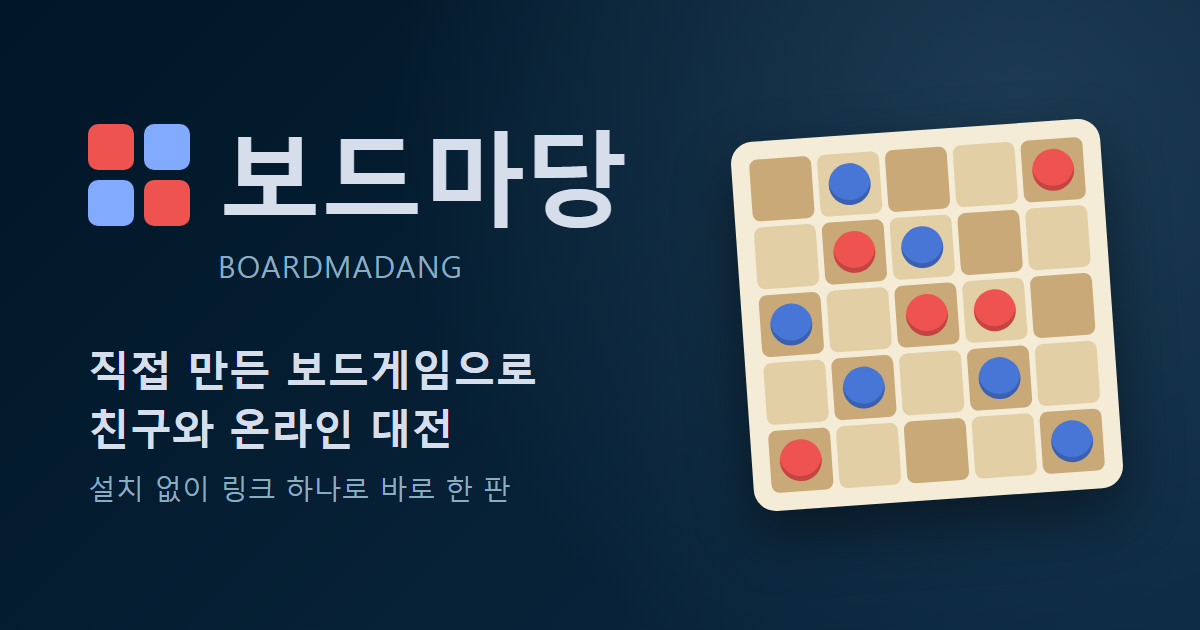
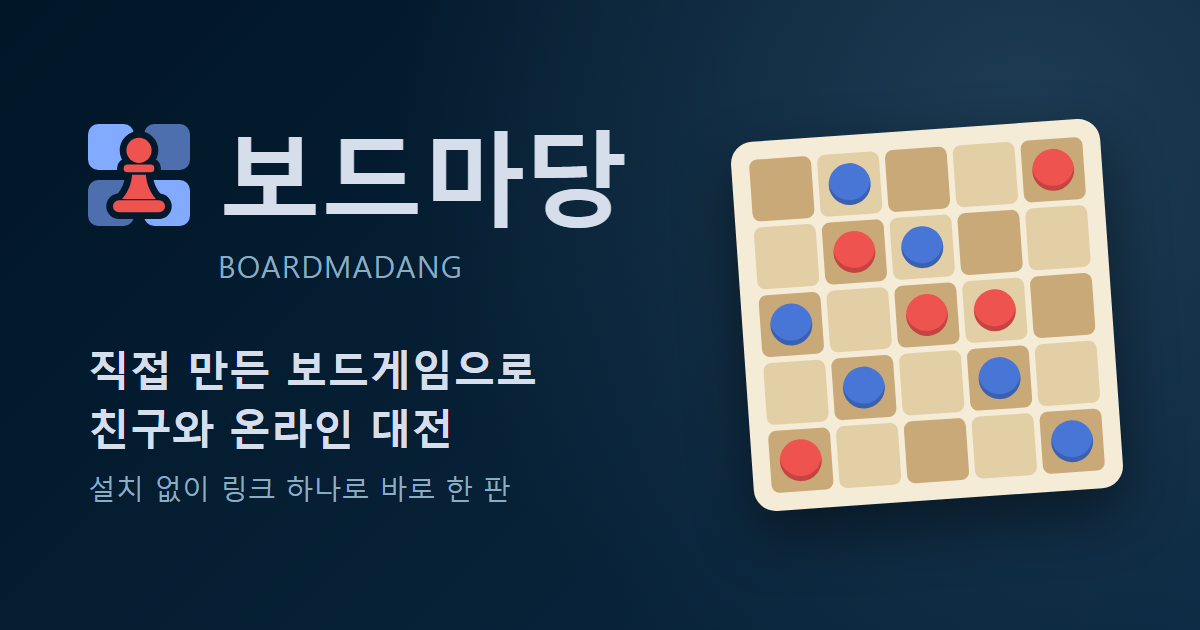
웹: 새 로고 (체크 판 위의 폰)
네 색 네모 로고를 파랑 두 톤 체크 판 위에 빨간 폰이 선 모양으로 바꿨습니다.
- 머리줄과 바닥글: 네모 네 개 대신 그림 한 장. 어두운 화면은 icon.svg,
  밝은 화면은 조금 진한 색의 icon-light.svg
- 탭 아이콘(icon.svg, icon-32.png)도 같은 모양으로 맞춤 (전에는 두 색이라 머리줄 로고와 달랐음)
- 아이폰 홈 화면 아이콘(icon-180.png)과 링크 미리보기 그림(og.png)의 로고도 새 모양으로

Changed region(s): [[0.0617, 0.181, 0.185, 0.3619]]

diff --git a/web/lobby.css b/web/lobby.css
@@ -129,16 +129,15 @@ body {
   font-size: 18px;
 }
 
+/* 로고: 체크 판 위의 폰. 어두운 화면은 탭 아이콘과 같은 icon.svg, 밝은 화면은 조금 진한 icon-light.svg */
 .logo-mark {
-  display: grid;
-  grid-template-columns: repeat(2, 9px);
-  gap: 2px;
+  display: block;
+  flex: none;
+  width: 22px;
+  height: 22px;
+  background: url("icon.svg") center / contain no-repeat;
 }
-.logo-mark { gap: 3px; }
-.logo-mark i { width: 9px; height: 9px; border-radius: 2px; background: #ef5350; }
-.logo-mark i:nth-child(2) { background: #82aaff; }
-.logo-mark i:nth-child(3) { background: #7fdbca; }
-.logo-mark i:nth-child(4) { background: #ecc48d; }
+:root[data-theme="light"] .logo-mark { background-image: url("icon-light.svg"); }
 
 .menu { display: flex; align-items: center; gap: 4px; flex: 1; }
 .menu a, .menu .soon { padding: 7px 12px; border-radius: 8px; color: var(--topbar-muted); text-decoration: none; font-size: 15px; white-space: nowrap; }
@@ -1088,8 +1087,7 @@ fieldset .bars-chip, .bars-chip { width: 44px; padding: 0; justify-content: cent
 .app > .site-footer { width: 100%; max-width: 1240px; margin: 0 auto; padding: 24px 32px; justify-content: space-between; border-top: 1px solid var(--line); }
 .site-footer nav { display: flex; flex-wrap: wrap; gap: 4px 18px; }
 .footer-logo { display: flex; align-items: center; gap: 8px; color: var(--muted); }
-.footer-logo .logo-mark { grid-template-columns: repeat(2, 6px); gap: 2px; }
-.footer-logo .logo-mark i { width: 6px; height: 6px; border-radius: 1px; }
+.footer-logo .logo-mark { width: 16px; height: 16px; }
 
 /* ---- 좁은 화면 (휴대폰) ---- */
 

diff --git a/web/index.html b/web/index.html
@@ -25,7 +25,7 @@
   <div class="app">
     <header class="topbar">
       <a class="logo" href="/web/">
-        <span class="logo-mark" aria-hidden="true"><i></i><i></i><i></i><i></i></span>
+        <span class="logo-mark" aria-hidden="true"></span>
         <span data-i18n="site.name">보드마당</span>
       </a>
       <nav class="menu" data-i18n-attr="aria-label:menu.label" aria-label="메뉴">
@@ -146,7 +146,7 @@
     </main>
 
     <footer class="site-footer">
-      <span class="footer-logo"><span class="logo-mark" aria-hidden="true"><i></i><i></i><i></i><i></i></span><span data-i18n="site.name">보드마당</span></span>
+      <span class="footer-logo"><span class="logo-mark" aria-hidden="true"></span><span data-i18n="site.name">보드마당</span></span>
       <nav data-i18n-attr="aria-label:footer.label" aria-label="사이트 정보">
         <a href="/web/legal.html" data-i18n="footer.legal">약관과 개인정보</a>
         <a href="https://github.com/shin1244/boardmadang" data-i18n="footer.source">소스 코드</a>

diff --git a/web/legal.html b/web/legal.html
@@ -26,7 +26,7 @@
        저장하는 것과 탈퇴할 때 지우는 것은 docs/identity.md, 운영 조치는 docs/moderation.md와 맞춥니다. 고치면 시행일도 바꿉니다. -->
   <header class="topbar">
     <a class="logo" href="/web/">
-      <span class="logo-mark" aria-hidden="true"><i></i><i></i><i></i><i></i></span>
+      <span class="logo-mark" aria-hidden="true"></span>
       <span data-i18n="site.name">보드마당</span>
     </a>
     <nav class="menu" data-i18n-attr="aria-label:menu.label" aria-label="메뉴">

diff --git a/web/admin.html b/web/admin.html
@@ -17,7 +17,7 @@
   <!-- 글자는 web/i18n.js에 언어별로 있습니다. 여기 적힌 한국어는 스크립트가 돌기 전 잠깐 보이는 기본값입니다. -->
   <header class="topbar">
     <a class="logo" href="/web/">
-      <span class="logo-mark" aria-hidden="true"><i></i><i></i><i></i><i></i></span>
+      <span class="logo-mark" aria-hidden="true"></span>
       <span data-i18n="site.name">보드마당</span>
     </a>
     <nav class="menu" data-i18n-attr="aria-label:menu.label" aria-label="메뉴">

diff --git a/web/ai.html b/web/ai.html
@@ -25,7 +25,7 @@
   <!-- 글자는 web/i18n.js에 언어별로 있습니다. 여기 적힌 한국어는 스크립트가 돌기 전 잠깐 보이는 기본값입니다. -->
   <header class="topbar">
     <a class="logo" href="/web/">
-      <span class="logo-mark" aria-hidden="true"><i></i><i></i><i></i><i></i></span>
+      <span class="logo-mark" aria-hidden="true"></span>
       <span data-i18n="site.name">보드마당</span>
     </a>
     <nav class="menu" data-i18n-attr="aria-label:menu.label" aria-label="메뉴">

diff --git a/web/history.html b/web/history.html
@@ -15,7 +15,7 @@
   <!-- 글자는 web/i18n.js에 언어별로 있습니다. 여기 적힌 한국어는 스크립트가 돌기 전 잠깐 보이는 기본값입니다. -->
   <header class="topbar">
     <a class="logo" href="/web/">
-      <span class="logo-mark" aria-hidden="true"><i></i><i></i><i></i><i></i></span>
+      <span class="logo-mark" aria-hidden="true"></span>
       <span data-i18n="site.name">보드마당</span>
     </a>
     <nav class="menu" data-i18n-attr="aria-label:menu.label" aria-label="메뉴">

diff --git a/web/match.html b/web/match.html
@@ -25,7 +25,7 @@
   <!-- 글자는 web/i18n.js에 언어별로 있습니다. 여기 적힌 한국어는 스크립트가 돌기 전 잠깐 보이는 기본값입니다. -->
   <header class="topbar">
     <a class="logo" href="/web/">
-      <span class="logo-mark" aria-hidden="true"><i></i><i></i><i></i><i></i></span>
+      <span class="logo-mark" aria-hidden="true"></span>
       <span data-i18n="site.name">보드마당</span>
     </a>
     <nav class="menu" data-i18n-attr="aria-label:menu.label" aria-label="메뉴">

diff --git a/web/register.html b/web/register.html
@@ -25,7 +25,7 @@
   <!-- 글자는 web/i18n.js에 언어별로 있습니다. 여기 적힌 한국어는 스크립트가 돌기 전 잠깐 보이는 기본값입니다. -->
   <header class="topbar">
     <a class="logo" href="/web/">
-      <span class="logo-mark" aria-hidden="true"><i></i><i></i><i></i><i></i></span>
+      <span class="logo-mark" aria-hidden="true"></span>
       <span data-i18n="site.name">보드마당</span>
     </a>
     <nav class="menu" data-i18n-attr="aria-label:menu.label" aria-label="메뉴">

diff --git a/web/replay.html b/web/replay.html
@@ -26,7 +26,7 @@
   <!-- 글자는 web/i18n.js에 언어별로 있습니다. 여기 적힌 한국어는 스크립트가 돌기 전 잠깐 보이는 기본값입니다. -->
   <header class="topbar">
     <a class="logo" href="/web/">
-      <span class="logo-mark" aria-hidden="true"><i></i><i></i><i></i><i></i></span>
+      <span class="logo-mark" aria-hidden="true"></span>
       <span data-i18n="site.name">보드마당</span>
     </a>
     <nav class="menu" data-i18n-attr="aria-label:menu.label" aria-label="메뉴">

diff --git a/web/rooms.html b/web/rooms.html
@@ -25,7 +25,7 @@
   <!-- 글자는 web/i18n.js에 언어별로 있습니다. 여기 적힌 한국어는 스크립트가 돌기 전 잠깐 보이는 기본값입니다. -->
   <header class="topbar">
     <a class="logo" href="/web/">
-      <span class="logo-mark" aria-hidden="true"><i></i><i></i><i></i><i></i></span>
+      <span class="logo-mark" aria-hidden="true"></span>
       <span data-i18n="site.name">보드마당</span>
     </a>
     <nav class="menu" data-i18n-attr="aria-label:menu.label" aria-label="메뉴">

diff --git a/web/training.html b/web/training.html
@@ -17,7 +17,7 @@
   <!-- 글자는 web/i18n.js에 언어별로 있습니다. 여기 적힌 한국어는 스크립트가 돌기 전 잠깐 보이는 기본값입니다. -->
   <header class="topbar">
     <a class="logo" href="/web/">
-      <span class="logo-mark" aria-hidden="true"><i></i><i></i><i></i><i></i></span>
+      <span class="logo-mark" aria-hidden="true"></span>
       <span data-i18n="site.name">보드마당</span>
     </a>
     <nav class="menu" data-i18n-attr="aria-label:menu.label" aria-label="메뉴">

diff --git a/web/watch.html b/web/watch.html
@@ -26,7 +26,7 @@
   <!-- 글자는 web/i18n.js에 언어별로 있습니다. 여기 적힌 한국어는 스크립트가 돌기 전 잠깐 보이는 기본값입니다. -->
   <header class="topbar">
     <a class="logo" href="/web/">
-      <span class="logo-mark" aria-hidden="true"><i></i><i></i><i></i><i></i></span>
+      <span class="logo-mark" aria-hidden="true"></span>
       <span data-i18n="site.name">보드마당</span>
     </a>
     <nav class="menu" data-i18n-attr="aria-label:menu.label" aria-label="메뉴">
